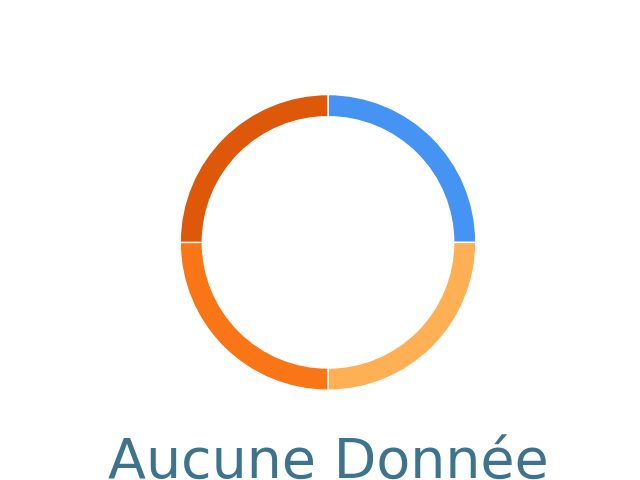
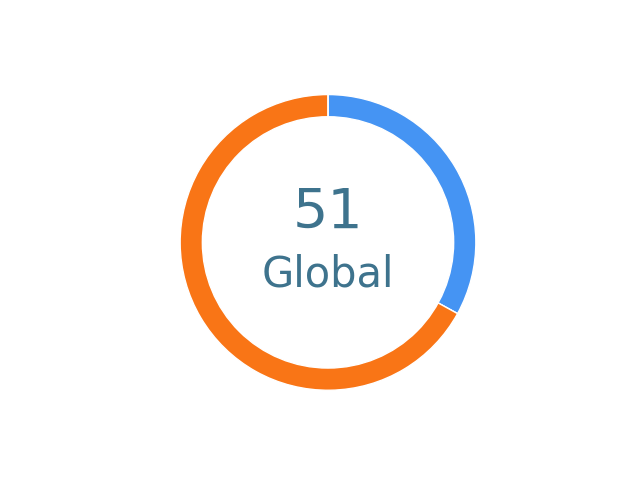
"debug sleep chart"

diff --git a/data/data.py b/data/data.py
@@ -134,7 +134,7 @@ def get_sleep():
     output["percentage_rem"]    = ""
     output["percentage_awake"]  = ""
     
-    if len(datas) > 0 and isinstance(datas["sleep"]["score"], str) == False:
+    if isinstance(datas["sleep"]["score"], str) == False and datas["sleep"]["recorded_time"]>0:
         output["values"]            = datas["sleep"]["sleep_map"]
         output["score"]             = datas["sleep"]["score"]
         output["quality"]           = datas["sleep"]["quality"]
